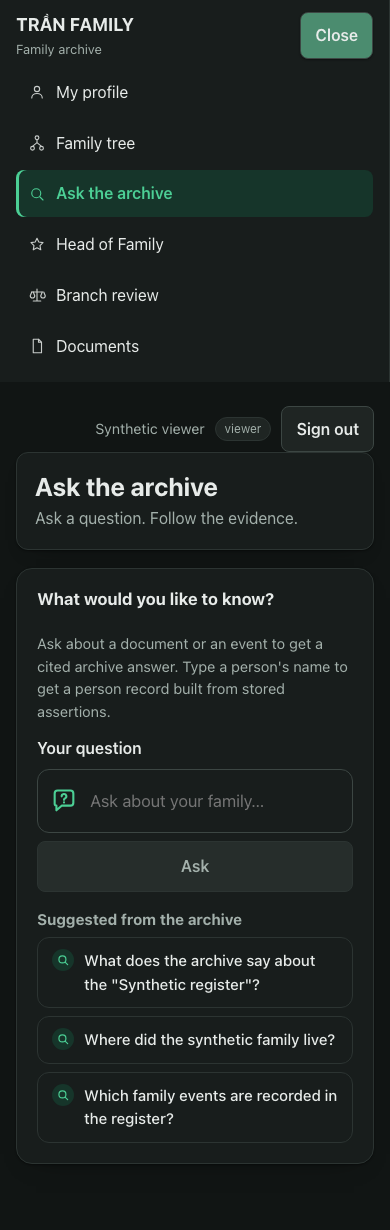
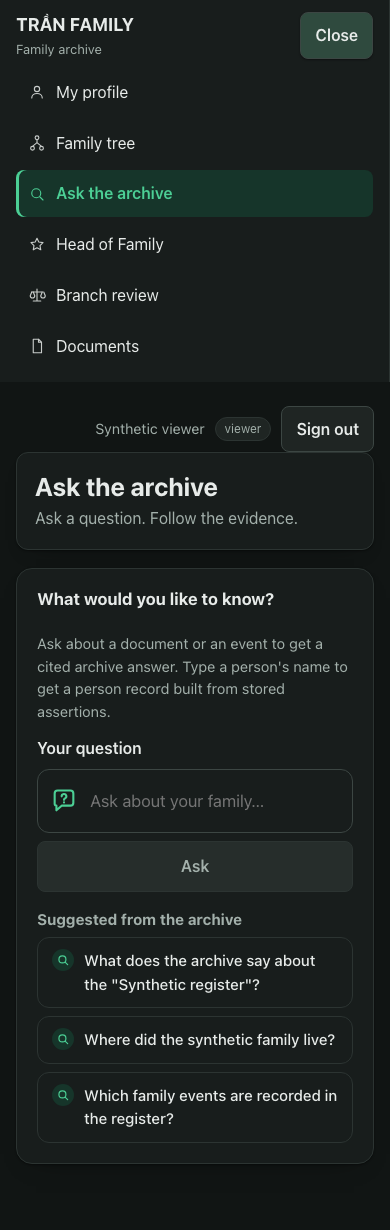
chore(web): align Next 16 tsconfig and refresh UI evidence
Run the web gates against the lockfile Next 16.4.2 install, apply its required tsconfig values, and refresh the dark-theme evidence. The 34-test UI suite and 52-check shell smoke pass.

Changed region(s): [[0.7692, 0.0, 0.9538, 0.0618]]

diff --git a/docs/reports/ui-reskin/stage-1/README.md b/docs/reports/ui-reskin/stage-1/README.md
@@ -22,28 +22,32 @@ The baseline was captured against the pre-change app with synthetic intercepted
 data. The previous design had a dark evergreen sidebar and warm paper canvas,
 with no dark theme.
 
-| Desktop idle | Desktop answered | Mobile answered |
-| --- | --- | --- |
+| Desktop idle                                             | Desktop answered                                                 | Mobile answered                                                |
+| -------------------------------------------------------- | ---------------------------------------------------------------- | -------------------------------------------------------------- |
 | ![Before: desktop idle](./before/desktop-light-idle.png) | ![Before: desktop answered](./before/desktop-light-answered.png) | ![Before: mobile answered](./before/mobile-light-answered.png) |
 
 ## After
 
-| Desktop light idle | Desktop light answered |
-| --- | --- |
+| Desktop light idle                                           | Desktop light answered                                               |
+| ------------------------------------------------------------ | -------------------------------------------------------------------- |
 | ![After: desktop light idle](./after/desktop-light-idle.png) | ![After: desktop light answered](./after/desktop-light-answered.png) |
 
-| Desktop dark answered | Mobile light answered | Mobile dark answered |
-| --- | --- | --- |
-| ![After: desktop dark answered](./after/desktop-dark-answered.png) | ![After: mobile light answered](./after/mobile-light-answered.png) | ![After: mobile dark answered](./after/mobile-dark-answered.png) |
+| Desktop dark idle                                          | Desktop dark answered                                              |
+| ---------------------------------------------------------- | ------------------------------------------------------------------ |
+| ![After: desktop dark idle](./after/desktop-dark-idle.png) | ![After: desktop dark answered](./after/desktop-dark-answered.png) |
+
+| Mobile light answered                                              | Mobile dark answered                                             |
+| ------------------------------------------------------------------ | ---------------------------------------------------------------- |
+| ![After: mobile light answered](./after/mobile-light-answered.png) | ![After: mobile dark answered](./after/mobile-dark-answered.png) |
 
 Additional state captures:
 
-| Loading | Empty | Error | Insufficient |
-| --- | --- | --- | --- |
+| Loading                                       | Empty                                             | Error                                                 | Insufficient                                                     |
+| --------------------------------------------- | ------------------------------------------------- | ----------------------------------------------------- | ---------------------------------------------------------------- |
 | ![Loading](./after/desktop-light-loading.png) | ![Empty archive](./after/desktop-light-empty.png) | ![Recoverable error](./after/desktop-light-error.png) | ![Insufficient evidence](./after/desktop-light-insufficient.png) |
 
-| Mobile light navigation open | Mobile dark navigation open |
-| --- | --- |
+| Mobile light navigation open                                  | Mobile dark navigation open                                 |
+| ------------------------------------------------------------- | ----------------------------------------------------------- |
 | ![Mobile light navigation](./after/mobile-light-nav-open.png) | ![Mobile dark navigation](./after/mobile-dark-nav-open.png) |
 
 All screenshots use synthetic labels, synthetic sources, and synthetic
@@ -79,15 +83,15 @@ the Next.js development indicator so it is not mistaken for product UI.
 
 ## Verification
 
-| Check | Result |
-| --- | --- |
-| `scripts/web-control.sh typecheck` (`tsc --noEmit`) | **PASS** |
-| `scripts/web-control.sh build` (`next build`, isolated `.next-build`) | **PASS** |
-| `npx playwright test e2e/experience.spec.ts` | **PASS — 34/34** (22.2s) |
-| Shell smoke: 13 routes × desktop/mobile × light/dark | **PASS — 52 checks**, 0 horizontal overflow, 0 page errors |
-| `sop validate` (build, unit test, PostgreSQL integration, fmt, clippy) | **PASS** |
-| Real-browser RAG spec (`PLAYWRIGHT_ARGS=e2e/rag.spec.ts`) | **Partial** — see below |
-| `auth.spec.ts` standalone | **Not runnable standalone** — the first case needs the disposable OIDC issuer that `scripts/web-e2e.sh` starts; the second case passed |
+| Check                                                                                           | Result                                                                                                                                 |
+| ----------------------------------------------------------------------------------------------- | -------------------------------------------------------------------------------------------------------------------------------------- |
+| `scripts/web-control.sh typecheck` (`tsc --noEmit`)                                             | **PASS**                                                                                                                               |
+| `scripts/web-control.sh build` (`next build` with lockfile Next 16.4.2, isolated `.next-build`) | **PASS**                                                                                                                               |
+| `npx playwright test e2e/experience.spec.ts`                                                    | **PASS — 34/34** (22.2s)                                                                                                               |
+| Shell smoke: 13 routes × desktop/mobile × light/dark                                            | **PASS — 52 checks**, 0 horizontal overflow, 0 page errors                                                                             |
+| `sop validate` (build, unit test, PostgreSQL integration, fmt, clippy)                          | **PASS**                                                                                                                               |
+| Real-browser RAG spec (`PLAYWRIGHT_ARGS=e2e/rag.spec.ts`)                                       | **Partial** — see below                                                                                                                |
+| `auth.spec.ts` standalone                                                                       | **Not runnable standalone** — the first case needs the disposable OIDC issuer that `scripts/web-e2e.sh` starts; the second case passed |
 
 The shell smoke checked `/`, `/ask`, `/genealogy`, `/profile`, `/documents`,
 `/head-of-family`, `/branch-review`, `/family/synthetic-person`, and the five
